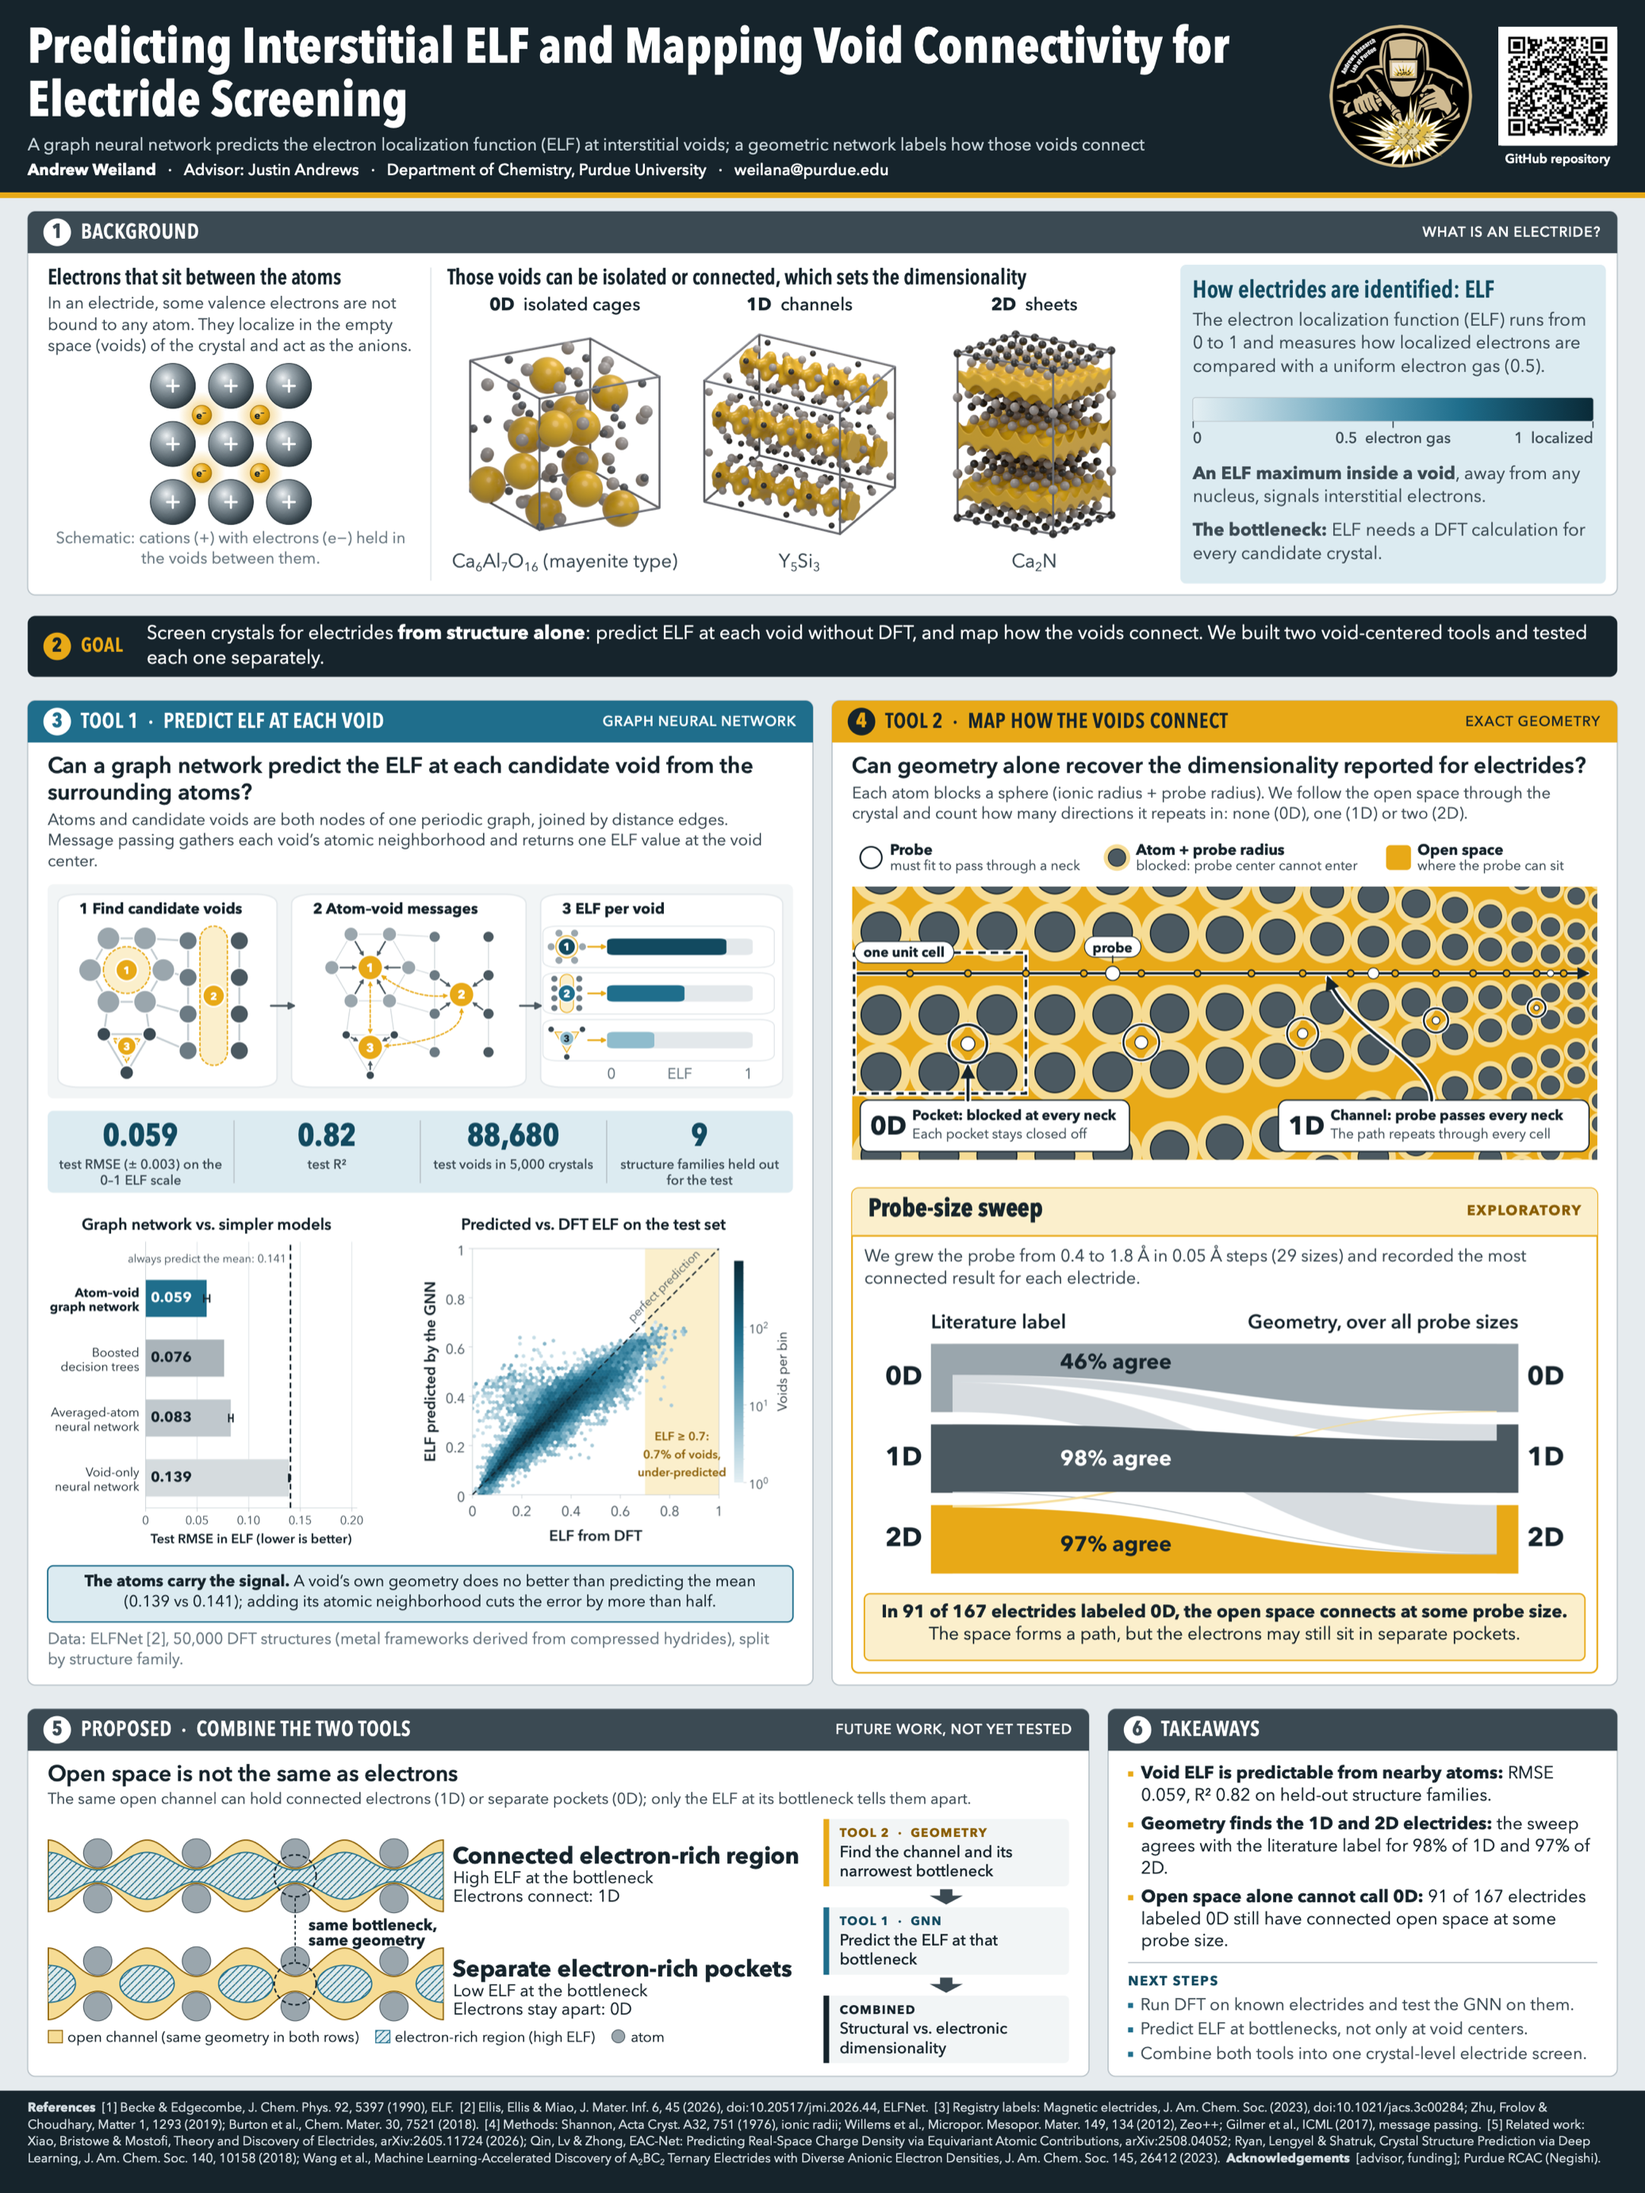
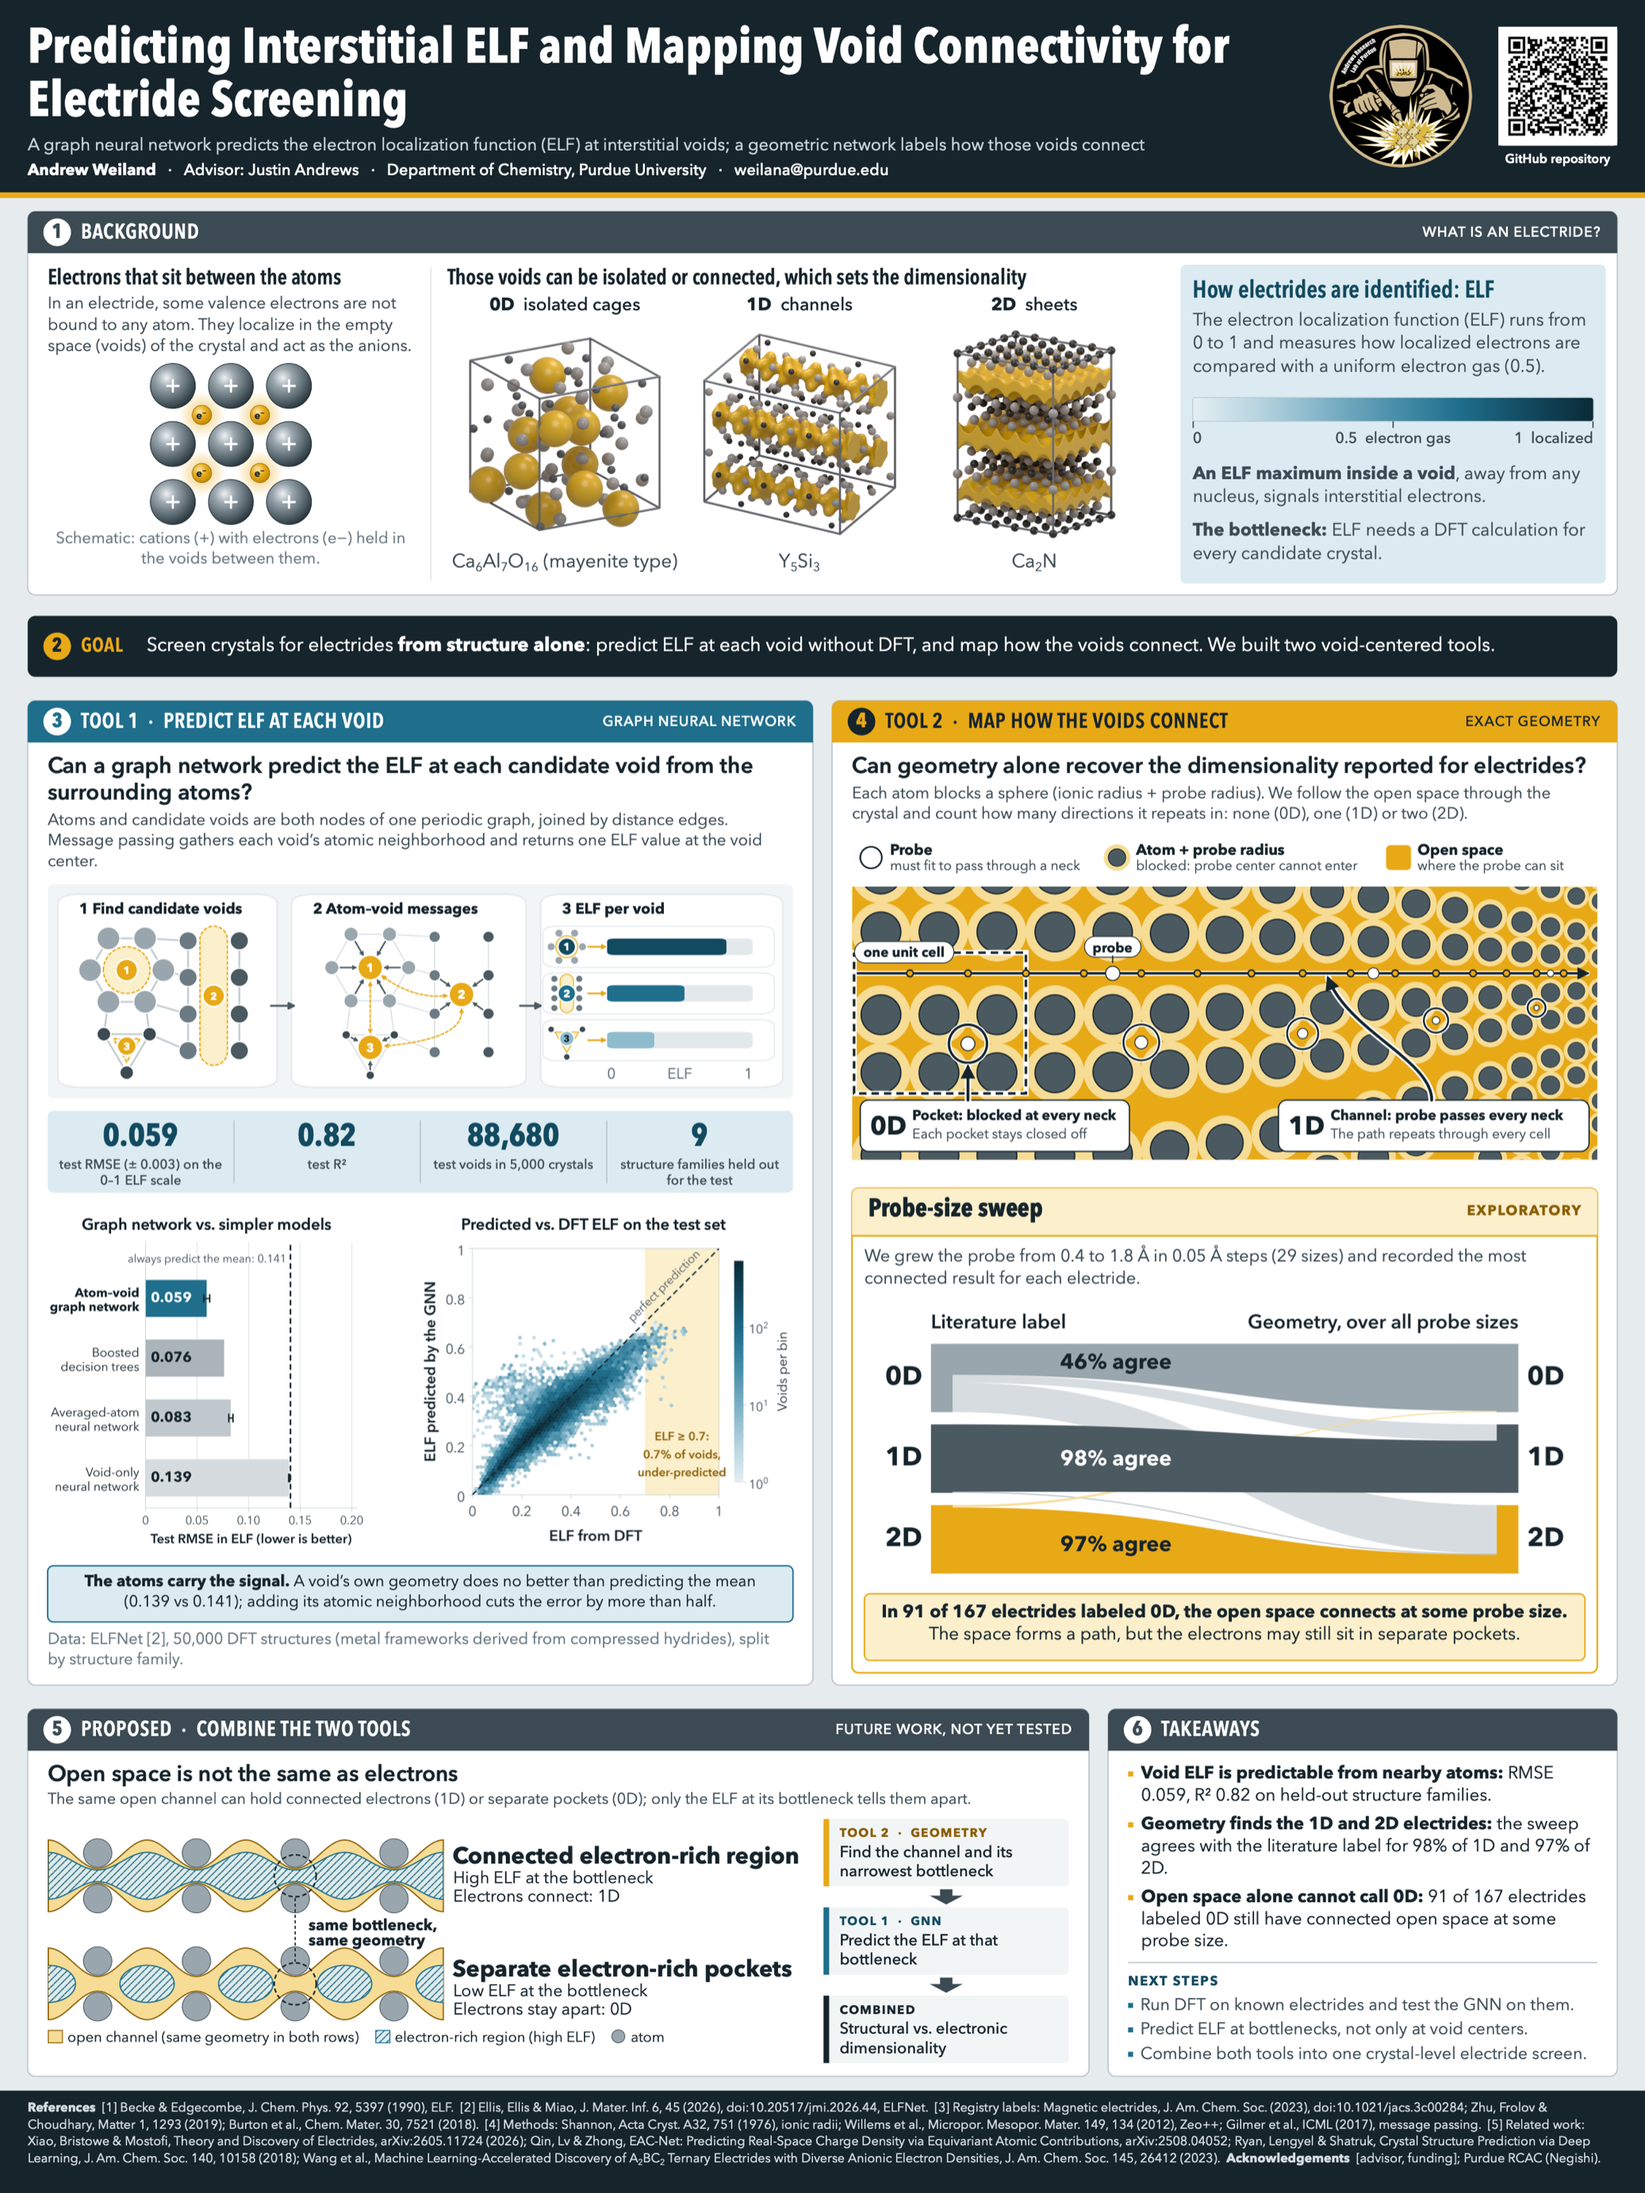
Poster v4: shorten the goal statement

Changed region(s): [[0.0926, 0.2799, 0.9566, 0.311]]

diff --git a/poster/build/build_poster_v4.py b/poster/build/build_poster_v4.py
@@ -355,8 +355,8 @@ p.rect(M, GOAL_Y, W - 2 * M, GOAL_H, T.INK, 16, label="Goal band")
 p.o.append(f'<circle cx="{M + 62}" cy="{GOAL_Y + GOAL_H / 2}" r="29" fill="{T.GEO}"/>')
 p.text(M + 32, GOAL_Y + GOAL_H / 2 - 21, 60, "2", 31, T.INK, 700, T.HEAD, "center")
 p.text(M + 112, GOAL_Y + GOAL_H / 2 - 21, 200, "GOAL", 31, T.GEO, 600, T.HEAD, tracking=1.2)
-p.text(M + 250, GOAL_Y + 18, W - 2 * M - 250 - PAD, "Screen crystals for electrides **from structure alone**: predict ELF at each void without "
-       "DFT, and map how the voids connect. We built two void-centered tools and tested each one separately.", 30, "#ffffff", 400, lh=1.3)
+p.text(M + 250, GOAL_Y + GOAL_H / 2 - 21, W - 2 * M - 250 - PAD, "Screen crystals for electrides **from structure alone**: predict ELF at each void without "
+       "DFT, and map how the voids connect. We built two void-centered tools.", 30, "#ffffff", 400, lh=1.3)
 
 # ---- 3 tool 1
 p.layer("3 Tool 1: predict ELF")
